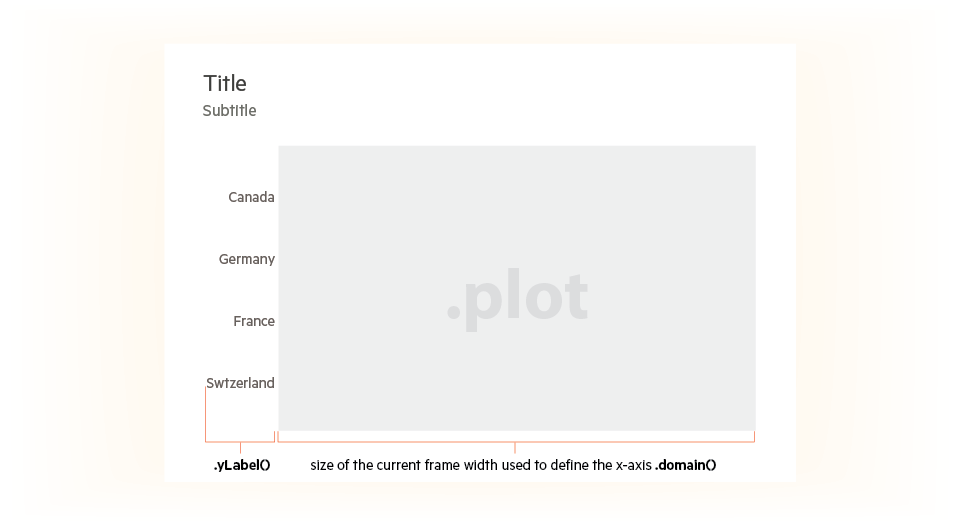
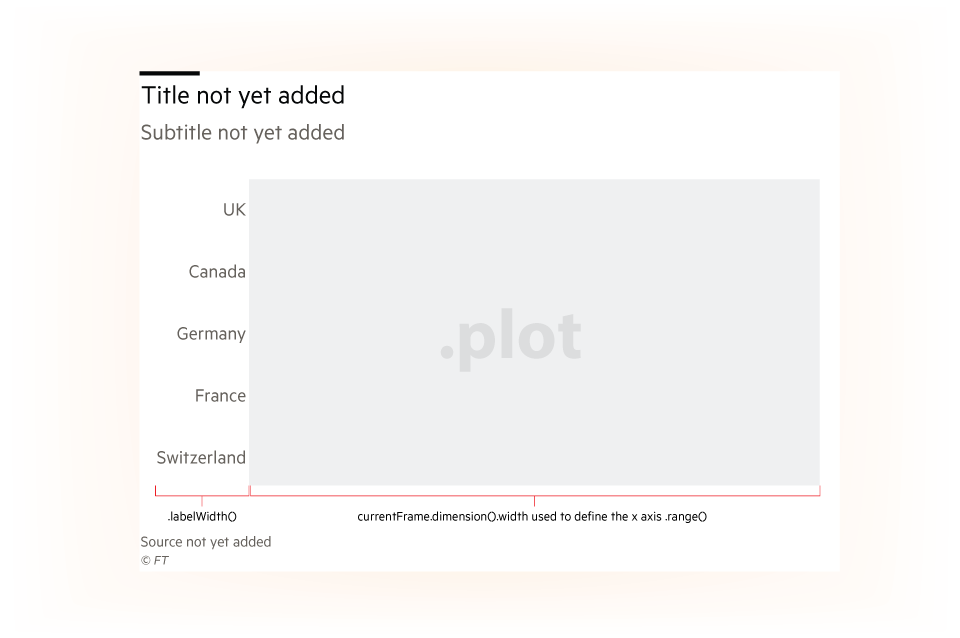
replace first image

diff --git a/README.md b/README.md
@@ -30,11 +30,11 @@ Not yet deployed
 
 All examples shown are from the web frame style.
 
-<b>Notes</b>Always createw and call you axis before executing any code to draw your chart. Pass the axis to the chart code, not the other way round. This means that any inbuilt functionality generated by the axis such as <b>.invert()</b> or <b>.logScale()</b> will be passed automatically to the chart and avoid you haveing to create extra code.
+<b>Note</b> Always createw and call you axis before executing any code to draw your chart. Pass the axis to the chart code, not the other way round. This means that any inbuilt functionality generated by the axis such as <b>.invert()</b> or <b>.logScale()</b> will be passed automatically to the chart and avoid you haveing to create extra code.
 
-Create and call a y-axis first, as it returms <b>.labelWidth()</b> that holds a value equal to the width of the widest tick label on the y-axis. This value is used to re-define the left or right margin of the chartframe before defining the <b>.domain()</b> of the x-axis e.g.
+Create and call a y-axis first, as it returms <b>.labelWidth()</b> that holds a value equal to the width of the widest tick label on the y-axis. This value is used to re-define the left or right margin of the chartframe before defining the <b>.range()</b> of the x axis e.g.
 
-yOrdinal axis where the width of 'Switzerland' is returned in <b>.labelWidth</b>
+yOrdinal axis where the width of 'Switzerland' is returned in <b>.labelWidth()</b>
 ![alt tag](https://github.com/ft-interactive/g-axis/blob/master/images/yLabel-large.png)
 The tick 'Dem Republic of Congo'is much longer so will leave less space for the x-axis <b>.domain()</b>
 ![alt tag](https://github.com/ft-interactive/g-axis/blob/master/images/yLabel-small.png)
